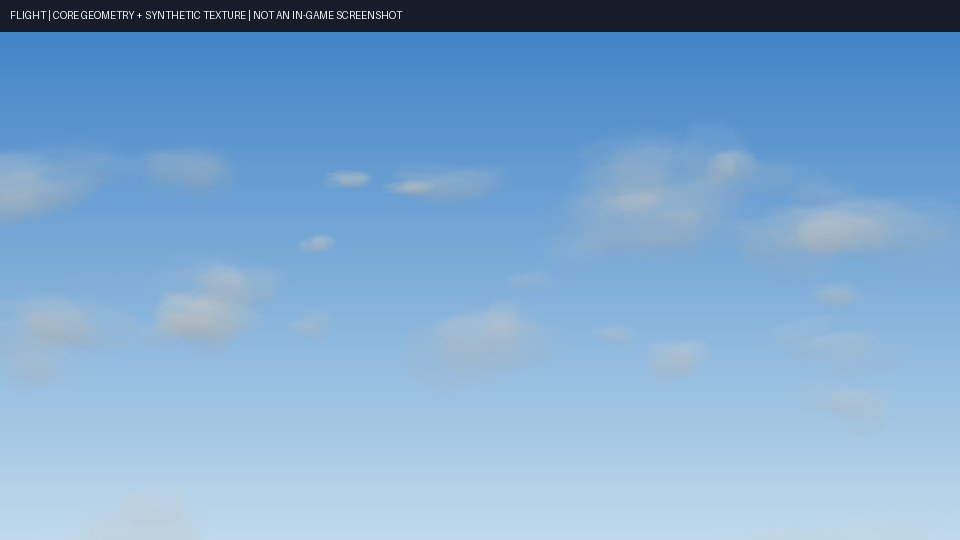
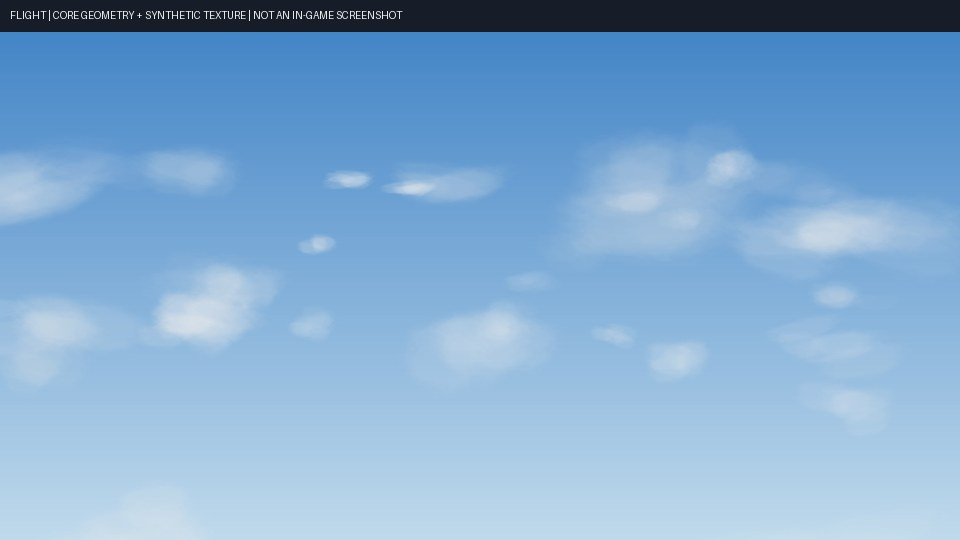
Restore native high-cloud lighting by default

diff --git a/main.cpp b/main.cpp
@@ -156,20 +156,6 @@ public:
     }
 };
 
-struct Colour { float r,g,b; };
-Colour Blend(Colour a,Colour b,float t) {
-    return {vc::mix(a.r,b.r,t),vc::mix(a.g,b.g,t),vc::mix(a.b,b.b,t)};
-}
-Colour BaseColour() {
-    const auto& cc=CTimeCycle::m_CurrentColours;
-    const float grey=std::min(255.f,(cc.m_nSkyTopRed+cc.m_nSkyTopGreen+cc.m_nSkyTopBlue+
-        cc.m_nSkyBottomRed+cc.m_nSkyBottomGreen+cc.m_nSkyBottomBlue)/6.f+settings.colorBrightnessBoost);
-    const Colour fallback{grey,grey,grey};
-    if (!settings.useTimecycTint) return fallback;
-    const Colour low{float(cc.m_nLowCloudsRed),float(cc.m_nLowCloudsGreen),float(cc.m_nLowCloudsBlue)};
-    const Colour bottom{float(cc.m_nFluffyCloudsBottomRed),float(cc.m_nFluffyCloudsBottomGreen),float(cc.m_nFluffyCloudsBottomBlue)};
-    return Blend(fallback,Blend(low,bottom,settings.fluffyCloudBottomBlend),settings.timecycTintStrength);
-}
 unsigned char Byte(float x) { return static_cast<unsigned char>(vc::clamp(x,0.f,255.f)+.5f); }
 
 bool Visible(RwCamera* camera, vc::Vec p, float radius) {
@@ -196,7 +182,7 @@ void Flush(int& count,RwRaster* raster) {
     count=0;
 }
 
-void Append(const vc::Card& card,Colour colour,int& count) {
+void Append(const vc::Card& card,const vc::CardColours& colours,int& count) {
     // Two triangles, identical UV convention to SA: top-left (0,0).
     constexpr int corners[6]={0,1,2,1,3,2};
     const auto normal=vc::unit(vc::Vec{
@@ -206,13 +192,13 @@ void Append(const vc::Card& card,Colour colour,int& count) {
     for (int index:corners) {
         const bool right=(index&1)!=0, bottom=(index&2)!=0;
         const auto p=card.center+card.right*(right?1.f:-1.f)+card.up*(bottom?-1.f:1.f);
-        const auto shade=bottom?settings.bottomShade:1.f;
+        const auto& colour=bottom?colours.bottom:colours.top;
         auto& v=vertices[count++];
         RwIm3DVertexSetPos(&v,p.x,p.y,p.z);
         RwIm3DVertexSetNormal(&v,normal.x,normal.y,normal.z);
         RwIm3DVertexSetU(&v,right?1.f:0.f);
         RwIm3DVertexSetV(&v,bottom?1.f:0.f);
-        RwIm3DVertexSetRGBA(&v,Byte(colour.r*shade),Byte(colour.g*shade),Byte(colour.b*shade),Byte(card.alpha*255.f));
+        RwIm3DVertexSetRGBA(&v,Byte(colour.r),Byte(colour.g),Byte(colour.b),Byte(card.alpha*255.f));
     }
 }
 
@@ -276,8 +262,13 @@ void __cdecl RenderClouds() {
 
     RenderStates states;
     if (!states.begin()) return;
-    const Colour base=BaseColour();
-    const Colour sky{float(cc.m_nSkyBottomRed),float(cc.m_nSkyBottomGreen),float(cc.m_nSkyBottomBlue)};
+    const vc::Palette palette{
+        {float(cc.m_nSkyTopRed),float(cc.m_nSkyTopGreen),float(cc.m_nSkyTopBlue)},
+        {float(cc.m_nSkyBottomRed),float(cc.m_nSkyBottomGreen),float(cc.m_nSkyBottomBlue)},
+        {float(cc.m_nLowCloudsRed),float(cc.m_nLowCloudsGreen),float(cc.m_nLowCloudsBlue)},
+        {float(cc.m_nFluffyCloudsBottomRed),float(cc.m_nFluffyCloudsBottomGreen),float(cc.m_nFluffyCloudsBottomBlue)}
+    };
+    const vc::CloudLighting lighting(settings,palette);
     int count=0;
     RwRaster* raster=nullptr;
     for (int i=0;i<drawCount;++i) {
@@ -285,10 +276,8 @@ void __cdecl RenderClouds() {
         // Batch only consecutive matching rasters: no texture regrouping that breaks alpha order.
         if (count+6>BatchVertices || raster!=d.raster) Flush(count,raster);
         raster=d.raster;
-        const auto shade=vc::mix(settings.bottomShade,1.f,d.card.shade);
-        const Colour lit{base.r*shade,base.g*shade,base.b*shade};
-        const float haze=settings.useGameFog?0.f:settings.hazeStrength*vc::smooth(vc::length(d.card.center-view.pos)/range.end);
-        Append(d.card,Blend(lit,sky,haze),count);
+        const float distanceNorm=settings.lightingMode==1?vc::length(d.card.center-view.pos)/range.end:0.f;
+        Append(d.card,lighting.colours(d.card.shade,distanceNorm),count);
     }
     Flush(count,raster);
 }
@@ -314,7 +303,9 @@ public:
         plugin::Events::initGameEvent += ResetField;
         plugin::Events::reInitGameEvent += ResetField;
         plugin::Events::shutdownRwEvent += ResetField;
-        Log("Procedural volumetric cloud renderer installed (SA 1.0 US).");
+        Log(settings.lightingMode==0
+            ? "Procedural volumetric cloud renderer installed (SA 1.0 US, native lighting)."
+            : "Procedural volumetric cloud renderer installed (SA 1.0 US, custom lighting).");
     }
 } gPlugin;
 } // namespace

diff --git a/CloudCore.hpp b/CloudCore.hpp
@@ -41,14 +41,15 @@ struct Settings {
     float windMoveScale = .9f, minSpacing2D = 45.f, spawnFadeInSpeed = .02f;
     float quadFacingMin = .2f, farClipFadeRange = 450.f, farClipFadeMargin = 80.f;
     float timecycFarClipScale = 1.8f;
+    int lightingMode = 0; // 0: native volumetric cloud colour; 1: custom tint/shade/haze
     bool useTimecycTint = true;
-    float timecycTintStrength = 1.f, fluffyCloudBottomBlend = 0.f;
+    float timecycTintStrength = .20f, fluffyCloudBottomBlend = 0.f;
     int colorBrightnessBoost = 64;
     bool useAdditionalTextures = true, includeOriginalTextureInRandom = true;
     std::vector<std::string> textureNames{"cloud2", "cloud3", "cloud4"};
     int renderMode = 1, puffsPerCloud = 5; // 0: crossed cards, 1: clustered soft cards
     float sizeScale = 1.f, opacity = 1.f, nearFadeDistance = 25.f;
-    float bottomShade = .75f, hazeStrength = .35f;
+    float bottomShade = 1.f, hazeStrength = 0.f;
     bool useGameFog = false;
     int seed = 17321;
 };
@@ -86,7 +87,7 @@ inline bool boolean(const std::string& s, bool& v) {
     X(Opacity,opacity,0.f,2.f) X(NearFadeDistance,nearFadeDistance,0.f,500.f) \
     X(BottomShade,bottomShade,0.f,1.f) X(HazeStrength,hazeStrength,0.f,1.f)
 #define VC_INTS(X) X(TargetProcClouds,targetProcClouds,0,MaxClouds) \
-    X(ColorBrightnessBoost,colorBrightnessBoost,0,255) X(RenderMode,renderMode,0,1) \
+    X(ColorBrightnessBoost,colorBrightnessBoost,0,255) X(LightingMode,lightingMode,0,1) X(RenderMode,renderMode,0,1) \
     X(PuffsPerCloud,puffsPerCloud,1,MaxPuffs) X(Seed,seed,1,16777215)
 #define VC_BOOLS(X) X(UseTimecycTint,useTimecycTint) X(UseAdditionalTextures,useAdditionalTextures) \
     X(IncludeOriginalTextureInRandom,includeOriginalTextureInRandom) X(UseGameFog,useGameFog)
@@ -142,6 +143,44 @@ inline void write(std::ostream& out, const Settings& c) {
 #undef VC_FLOATS
 #undef VC_INTS
 #undef VC_BOOLS
+
+// The native high/volumetric cloud pass does NOT use the low-cloud or fluffy
+// bottom RGB values. It averages all six sky-top/bottom channels, adds 64,
+// clamps to 255, and passes that neutral luminance to every card vertex.
+// Verified in the SA 1.0 US IDA dump at 0x716693..0x7166EB.
+struct RGB { float r,g,b; };
+struct Palette { RGB skyTop,skyBottom,lowCloud,fluffyBottom; };
+inline RGB mixRGB(RGB a, RGB b, float t) {
+    return {mix(a.r,b.r,t),mix(a.g,b.g,t),mix(a.b,b.b,t)};
+}
+inline RGB scaleRGB(RGB c,float v) { return {c.r*v,c.g*v,c.b*v}; }
+inline RGB nativeCloudColour(const Settings& s,const Palette& p) {
+    const int sum=int(p.skyTop.r)+int(p.skyTop.g)+int(p.skyTop.b)+
+                  int(p.skyBottom.r)+int(p.skyBottom.g)+int(p.skyBottom.b);
+    const float grey=float(std::clamp(sum/6+s.colorBrightnessBoost,0,255));
+    return {grey,grey,grey};
+}
+struct CardColours { RGB top,bottom; };
+class CloudLighting {
+    RGB base,sky;
+    bool custom;
+    float shade,haze;
+public:
+    CloudLighting(const Settings& s,const Palette& p)
+        : base(nativeCloudColour(s,p)),sky(p.skyBottom),custom(s.lightingMode==1),
+          shade(s.bottomShade),haze(s.useGameFog?0.f:s.hazeStrength) {
+        if (custom && s.useTimecycTint)
+            base=mixRGB(base,mixRGB(p.lowCloud,p.fluffyBottom,s.fluffyCloudBottomBlend),s.timecycTintStrength);
+    }
+    CardColours colours(float puffShade,float distanceNorm) const {
+        // Native mode bypasses all custom colour multipliers (even stale values
+        // in an older INI). The original texture provides its own shading.
+        if (!custom) return {base,base};
+        const RGB lit=scaleRGB(base,mix(shade,1.f,sat(puffShade)));
+        const RGB top=mixRGB(lit,sky,haze*smooth(distanceNorm));
+        return {top,scaleRGB(top,shade)};
+    }
+};
 
 struct View { Vec pos, right, up, forward; float farClip, nearClip; };
 struct Range { float end, begin, spawnMin, spawnMax, recycle; };

diff --git a/tests/cloud_tests.cpp b/tests/cloud_tests.cpp
@@ -24,6 +24,32 @@ int main() {
     Settings roundtrip; std::istringstream input(ini.str()); load(input,roundtrip);
     CHECK(roundtrip.targetProcClouds==cfg.targetProcClouds && roundtrip.textureNames==cfg.textureNames);
 
+    // Stock cloud vertices use neutral sky luminance, not low-cloud/underside RGB.
+    // An old generated INI must not silently restore the overly dark/tinted look.
+    Settings legacy;
+    std::istringstream oldIni("UseTimecycTint=1\nTimecycTintStrength=1\nBottomShade=.75\nHazeStrength=.35\n");
+    load(oldIni,legacy);
+    const Palette dawn{{156,255,255},{255,170,90},{60,30,20},{40,20,10}};
+    const Palette clear{{60,128,197},{192,218,236},{40,40,40},{20,20,20}};
+    const Palette night{{5,6,12},{14,15,20},{0,0,0},{0,0,0}};
+    auto bright=CloudLighting(legacy,dawn).colours(0.f,1.f);
+    CHECK(legacy.lightingMode==0 && bright.top.r==255 && bright.top.g==255 && bright.top.b==255);
+    CHECK(bright.bottom.r==255 && bright.bottom.g==255 && bright.bottom.b==255);
+    const auto clearColour=CloudLighting(legacy,clear).colours(.5f,.9f);
+    CHECK(clearColour.top.r==235 && clearColour.top.g==235 && clearColour.top.b==235);
+    CHECK(clearColour.bottom.r==clearColour.top.r && clearColour.bottom.g==clearColour.top.g && clearColour.bottom.b==clearColour.top.b);
+    const auto nightColour=CloudLighting(legacy,night).colours(0,1);
+    CHECK(nightColour.top.r==76 && nightColour.top.g==76 && nightColour.top.b==76);
+    // Explicit opt-in to old tint/shading must remain available.
+    std::istringstream customMode("LightingMode=1\n");
+    load(customMode,legacy);
+    auto custom=CloudLighting(legacy,dawn).colours(.5f,0.f);
+    CHECK(legacy.lightingMode==1 && close(custom.top.r,52.5f));
+    CHECK(close(custom.bottom.r,39.375f) && custom.top.r!=custom.top.b);
+    CHECK(CloudLighting(legacy,dawn).colours(.5f,1.f).top.r>custom.top.r);
+    legacy.useGameFog=true;
+    CHECK(close(CloudLighting(legacy,dawn).colours(.5f,1.f).top.r,custom.top.r));
+
     cfg=Settings{};
     View view{{0,0,100},{1,0,0},{0,0,1},{0,1,0},1800,1};
     const Range r=range(cfg,view.farClip,1000);
@@ -107,6 +133,6 @@ int main() {
     for(int i=0;i<100;++i) f.update(cfg,view,r,0,{},1);
     CHECK(used(f)==0);
 
-    std::cout << "PASS: INI, clip range, weather transitions, density retirement, spawn distribution, "
+    std::cout << "PASS: INI, native/custom lighting, clip range, weather transitions, density retirement, spawn distribution, "
                  "wind/timestep, determinism, teleport, geometry, opacity and capacity\n";
 }

diff --git a/tests/preview.py b/tests/preview.py
@@ -25,16 +25,19 @@ mask = np.uint8(np.clip(mask*2.7,0,1)**1.5*255)
 
 def render(scene, destination, executable):
     raw = subprocess.check_output([executable, scene], text=True)
-    storm = scene=="rain"
-    top = np.array([61,80,99] if storm else [59,127,197])
-    bottom = np.array([145,155,165] if storm else [192,218,236])
+    rows=csv.reader(io.StringIO(raw))
+    palette=list(map(float,next(rows)))
+    top=np.array(palette[:3])
+    bottom=np.array(palette[3:])
     y = np.linspace(0,1,HEIGHT)[:,None,None]
     sky = np.broadcast_to(top*(1-y)+bottom*y, (HEIGHT, WIDTH,3)).copy()
     canvas = Image.fromarray(sky.astype(np.uint8)).convert("RGBA")
-    base = np.array([190,199,205] if storm else [255,250,243])
-    for row in csv.reader(io.StringIO(raw)):
-        *coords, opacity, shade, haze = map(float,row)
-        p=np.array(coords).reshape(4,2)
+    for row in rows:
+        values=list(map(float,row))
+        p=np.array(values[:8]).reshape(4,2)
+        opacity=values[8]
+        top_colour=np.array(values[9:12])
+        bottom_colour=np.array(values[12:15])
         lo=np.maximum(0,np.floor(p.min(axis=0))).astype(int)
         hi=np.minimum([WIDTH,HEIGHT],np.ceil(p.max(axis=0))).astype(int)
         w,h=hi-lo
@@ -49,9 +52,9 @@ def render(scene, destination, executable):
         try: coeff=np.linalg.solve(np.array(mat),np.array(result))
         except np.linalg.LinAlgError: continue
         rgba=np.zeros((N,N,4),dtype=np.uint8)
-        lit=base*(.75+.25*shade)
-        colour=lit*(1-.35*haze)+bottom*.35*haze
-        rgba[:,:,:3]=(colour[None,None,:]*np.linspace(1,.75,N)[:,None,None]).astype(np.uint8)
+        # Actual shared C++ lighting, interpolated between vertex colours.
+        t=np.linspace(0,1,N)[:,None,None]
+        rgba[:,:,:3]=np.clip(top_colour*(1-t)+bottom_colour*t,0,255).astype(np.uint8)
         rgba[:,:,3]=(mask*opacity).astype(np.uint8)
         card=Image.fromarray(rgba).transform((int(w),int(h)),Image.Transform.PERSPECTIVE,tuple(coeff),Image.Resampling.BILINEAR)
         canvas.alpha_composite(card,tuple(lo))
@@ -62,5 +65,5 @@ def render(scene, destination, executable):
 
 if __name__=="__main__":
     dest=pathlib.Path(sys.argv[2]); dest.mkdir(parents=True,exist_ok=True)
-    for scene in ("clear","rain","flight","crossed"):
+    for scene in ("clear","rain","flight","crossed","sunrise","sunrise_old"):
         render(scene,dest/(scene+".jpg"),sys.argv[1])

diff --git a/tests/dump_preview.cpp b/tests/dump_preview.cpp
@@ -13,6 +13,17 @@ int main(int argc,char** argv) {
     float height=20.f;
     if(scene=="crossed") cfg.renderMode=0;
     if(scene=="flight") { height=520.f; pitch=-.13f; }
+    Palette palette{{60,128,197},{192,218,236},{75,75,75},{50,50,50}};
+    if(scene=="rain") palette={{61,80,99},{145,155,165},{65,65,65},{45,45,45}};
+    if(scene=="sunrise" || scene=="sunrise_old") {
+        palette={{156,255,255},{255,170,90},{60,30,20},{40,20,10}};
+        height=306.f; pitch=.06f;
+    }
+    if(scene=="sunrise_old") {
+        // Reproduce the previous build, not a separate geometry/texture fixture.
+        cfg.lightingMode=1; cfg.timecycTintStrength=1.f; cfg.bottomShade=.75f; cfg.hazeStrength=.35f;
+    }
+    const CloudLighting lighting(cfg,palette);
     View v{{0,0,height},{1,0,0},{0,-std::sin(pitch),std::cos(pitch)},
         {0,std::cos(pitch),std::sin(pitch)},2000,1};
     const auto r=range(cfg,v.farClip,1600);
@@ -37,6 +48,8 @@ int main(int argc,char** argv) {
         return true;
     };
     std::cout << std::setprecision(8);
+    auto rgb=[](RGB c) { std::cout<<c.r<<','<<c.g<<','<<c.b; };
+    rgb(palette.skyTop); std::cout<<','; rgb(palette.skyBottom); std::cout<<'\n';
     for(auto& c:items) {
         float x[4],y[4];
         bool valid=true;
@@ -46,6 +59,8 @@ int main(int argc,char** argv) {
         }
         if(!valid)continue;
         for(int i=0;i<4;++i) std::cout<<x[i]<<','<<y[i]<<',';
-        std::cout<<c.alpha<<','<<c.shade<<','<<smooth(length(c.center-v.pos)/r.end)<<'\n';
+        const auto colours=lighting.colours(c.shade,length(c.center-v.pos)/r.end);
+        std::cout<<c.alpha<<',';
+        rgb(colours.top); std::cout<<','; rgb(colours.bottom); std::cout<<'\n';
     }
 }

diff --git a/README.md b/README.md
@@ -27,7 +27,7 @@ pipeline may still need compatibility testing.
   Excess clouds fade out instead of remaining permanently allocated.
 - Clustered impostors (default): independently positioned soft cards form a cloud
   group. Each card faces the camera and is depth-sorted, with stable world positions,
-  varied sizes/rolls and mild vertical shading. Increasing the card count does not
+  varied sizes/rolls and native lighting (optional custom shading). Increasing the card count does not
   simply multiply opacity.
 - Crossed cards remain selectable for the native appearance.
 - Frustum rejection, actual camera far-plane limit, smooth range and near fades,
@@ -59,10 +59,11 @@ text retains the default. Inline comments are supported.
 | FarClipFadeRange | 450 | Requested distance fade width |
 | FarClipFadeMargin | 80 | Margin before the active far plane |
 | TimecycFarClipScale | 1.8 | Optional tighter timecycle-based cap, never extends projection |
-| UseTimecycTint | 1 | Use interpolated timecycle cloud RGB |
-| TimecycTintStrength | 1 | Mix native sky grayscale and cloud tint |
-| FluffyCloudBottomBlend | 0 | Mix low-cloud and fluffy-bottom timecycle RGB |
-| ColorBrightnessBoost | 64 | Addition to native grayscale fallback |
+| LightingMode | 0 | 0 = native high-cloud colour; 1 = custom tint, shade and haze |
+| UseTimecycTint | 1 | Custom mode: use interpolated low-cloud/fluffy RGB |
+| TimecycTintStrength | 0.20 | Custom mode: mix native sky grayscale and cloud tint |
+| FluffyCloudBottomBlend | 0 | Custom mode: mix low-cloud and fluffy-bottom timecycle RGB |
+| ColorBrightnessBoost | 64 | Addition to native sky luminance (64 is stock) |
 | UseAdditionalTextures | 1 | Look for listed textures in particle.txd |
 | IncludeOriginalTextureInRandom | 1 | Include native cloudhigh among variants |
 | CloudTextureNames | cloud2,cloud3,cloud4 | Comma-separated names; up to 15 |
@@ -71,13 +72,23 @@ text retains the default. Inline comments are supported.
 | SizeScale | 1 | Group dimensions multiplier |
 | Opacity | 1 | Group opacity multiplier (0–2) |
 | NearFadeDistance | 25 | Fade near the camera; 0 disables |
-| BottomShade | 0.75 | Bottom/vertical shading strength (1 disables) |
-| HazeStrength | 0.35 | Blend distant cards toward timecycle sky-bottom RGB |
+| BottomShade | 1 | Custom mode only: bottom/vertical shading (1 disables) |
+| HazeStrength | 0 | Custom mode only: blend distant cards toward sky-bottom RGB |
 | UseGameFog | 0 | Use RW scene fog rather than the plugin's manual distance haze |
 | Seed | 17321 | Deterministic local RNG seed |
 
-For a look closer to the old renderer, set `RenderMode=0`, `BottomShade=1`,
-`HazeStrength=0` and optionally `UseGameFog=1`. For a low-overhead clustered
+**Lighting correction:** `LightingMode=0` now uses the native high-cloud vertex
+colour from SA 1.0 US: average the six sky colour channels (integer division),
+add `ColorBrightnessBoost` (native 64) and clamp to 255. All vertices use that
+neutral brightness, with no extra puff/bottom shading or manual colour haze.
+An older INI without `LightingMode` automatically uses this corrected mode;
+no need to delete or regenerate it. The custom lighting settings are retained,
+but take effect only with `LightingMode=1`. `UseGameFog` is independently
+configurable and defaults off, like the native pass.
+
+For the stock appearance with the procedural field, use `RenderMode=0`,
+`LightingMode=0`, `UseAdditionalTextures=0`, `UseGameFog=0` and
+`ColorBrightnessBoost=64`. For a low-overhead clustered
 configuration try `PuffsPerCloud=3`. The new renderer deliberately does not
 extend the world/camera clip plane or change the game's native height-switch global.
 
@@ -120,12 +131,18 @@ See [handoff](new%20chat/HANDOFF.md) for implementation and verification details
 
 These images are generated from the actual portable cloud geometry using a **synthetic
 texture and sky**, not GTA assets or an in-game capture. They illustrate placement
-and the two geometry modes; real-game appearance must be tested separately.
+and the two geometry modes, plus the shared C++ lighting calculation; real-game
+appearance must be tested separately. The last row uses identical geometry,
+synthetic texture and illustrative sunrise palette; only lighting settings differ.
 
 | Clear / clustered | Rain / clustered |
 |---|---|
 | ![Clear scene](docs/previews/clear.jpg) | ![Rain scene](docs/previews/rain.jpg) |
 | ![Flight scene](docs/previews/flight.jpg) | ![Legacy crossed cards](docs/previews/crossed.jpg) |
+
+| Corrected sunrise (native colour) | Previous sunrise (full custom tint/shading) |
+|---|---|
+| ![Corrected](docs/previews/sunrise.jpg) | ![Previous](docs/previews/sunrise_old.jpg) |
 
 To regenerate the previews (requires Python, NumPy and Pillow):
 

diff --git a/new chat/HANDOFF.md b/new chat/HANDOFF.md
@@ -61,3 +61,26 @@ next executable test target, not proof of in-game rendering.
 The offline renderer in `tests/dump_preview.cpp` + `tests/preview.py` projects
 the portable model's real cards with a synthetic alpha texture and sky gradient.
 Examples in `docs/previews` are diagnostics, not GTA screenshots.
+
+## Lighting correction after user runtime feedback
+The original white high clouds and first PR build's dark, brown/gray clouds were
+compared in user-supplied GTA screenshots. They are different geographic and camera
+positions/times, so not a controlled pixel comparison. Nevertheless the code had
+a clear cause: it used unrelated timecycle low-cloud/fluffy-bottom RGB at 100%
+strength and darkened it twice (per puff and bottom vertex), plus sky-colour haze.
+
+The IDA text in part 14, 0x716693–0x7166EB, loads six unsigned sky channels,
+sums them, divides by six (0x2AAAAAAB multiply), adds 0x40 and clamps to 0xFF.
+It uses a neutral value, not the low-cloud palette. The stock blend is SRCALPHA /
+INVSRCALPHA with scene fog disabled (gta-reversed PostEffects and native cloud
+override). The new default LightingMode=0 reproduces this neutral vertex
+colour (64 boost by default), bypassing old tint, shade and haze keys even if
+set by an old INI. LightingMode=1 retains custom lighting, with safer fresh
+defaults. No changes to opacity, geometry, spawning, or texture selection.
+
+Portable tests exercise old INIs, clear/dawn/night luminance, colour saturation,
+uniform top/bottom colours and explicit custom mode. The offline preview now
+uses the shared C++ lighting instead of independently approximating it; the
+two sunrise scenes illustrate the lighting difference using identical geometry
+and synthetic texture/palette. Test the new ASI in the same place, time/weather,
+and particle.txd to validate visually.
